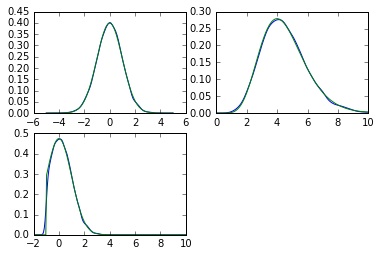
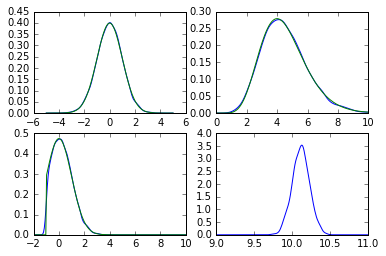
Better explanation.

diff --git a/ars_libgober.py b/ars_libgober.py
@@ -561,4 +561,23 @@ ax3.plot(xs,gaussian_kde(samples)(xs))
 ax3.plot(xs,distro.pdf(xs))
 kstest(samples,distro.cdf)
 
-#%% Bayesian Inference on 
+#%% Bayesian Inference on  our conjugate distribution
+np.random.seed(1)
+X = np.sort(np.random.gamma(10,size=750))
+loga = np.log(X).sum(); b = X.size
+from scipy.special import digamma
+def h(alpha):
+    return (alpha-1)*loga - b*np.math.lgamma(alpha)
+h = np.vectorize(h)
+def hprime(alpha):
+    return loga - b*digamma(alpha)
+hprime = np.vectorize(hprime)
+initial_knots = np.array([X[0],X[50],X[-1]])
+xlb = 0
+xub = np.inf
+np.random.seed(1)
+self = ArsSampler(initial_knots,np.vectorize(h),np.vectorize(hprime),0,xub)
+draws = self.sample(1000)
+xs = np.linspace(9,11,200)
+ax4 = fig1.add_subplot(2,2,4)
+ax4.plot(xs,gaussian_kde(draws)(xs))

diff --git a/README.md b/README.md
@@ -2,11 +2,13 @@
 
 This is a Python implementation of the algorithm described in P. Wild, W.R. Gilks, Algorithm AS 287: Adaptive Rejection Sampling from Log Concave Density functions. Assuming that you have a log concave density, this algorithm allows you to sample without ever having to calculate an integral.  For the Gibbs sampling implementation this was created for, this is particularly attractive.
 
-Below are kernel density plots from 10000 samples of the standard normal, Gamma (9,0.5), and truncated normal distributions.  I've also added used scipy to plot the pdf of these distributions.  As one can see, it's hard to tell which is which, so the sampler does appear to work.  
+The first three figures are kernel density plots from 10000 samples of the standard normal, Gamma (9,0.5), and truncated normal distributions.  I've also added used scipy to plot the pdf of these distributions.  As one can see, it's hard to tell which is which, so the sampler does appear to work.  
 
 ![alt text](https://github.com/libgober/ARS/blob/master/KDEplots.png "KDE plots")
 
 I calculated p-values for the ks-test of each set of samples against the hypothesized distribution. The smallest p-value of these was around 0.86.
+
+In the bottom right quadrant I've done a small simulation study.  I drew 100 samples from a gamma distribution with shape 10 and scale 1, and then treat that as data for trying to perform Bayesian inference.  To do that, I've drawn 1000 samples from the posterior distribution of the conjugate prior to a gamma with unknown shape, scale = 1, and hyperpriors chosen so that the simulated data totally dominate. Implicitly, the distribution involves a parameter that is the product of all our data (in this example should be around 10^100), so we can hit overflow very fast.  Since we are careful about our work in the log space, we don't have any problems. As can be seen, the mode of the posterior distribution is close to 10 and all the mass is between 9 and 11.  The Bayesian inference seems to have worked.
 
 The impetus for coding this sampler was to do fast Gibbs sampling on a distribution that has no closed form integral (the conjugate prior of a gamma likelihood with unknown shape). The concerns of that project dominated development. Because we only need a single sample at a time, there did not seem to be much advantage in developing the lower hull described in the paper.  This is a feature that may be added at some point and it would presumably be fairly straightforward.  Hopefully the numba package will continue to make improvements and one day we'll get a big free speedup.  This module is mostly compliant with numba, some part of it is not (I forget which). At some point it may be translated in whole or in part to Cython.
 
